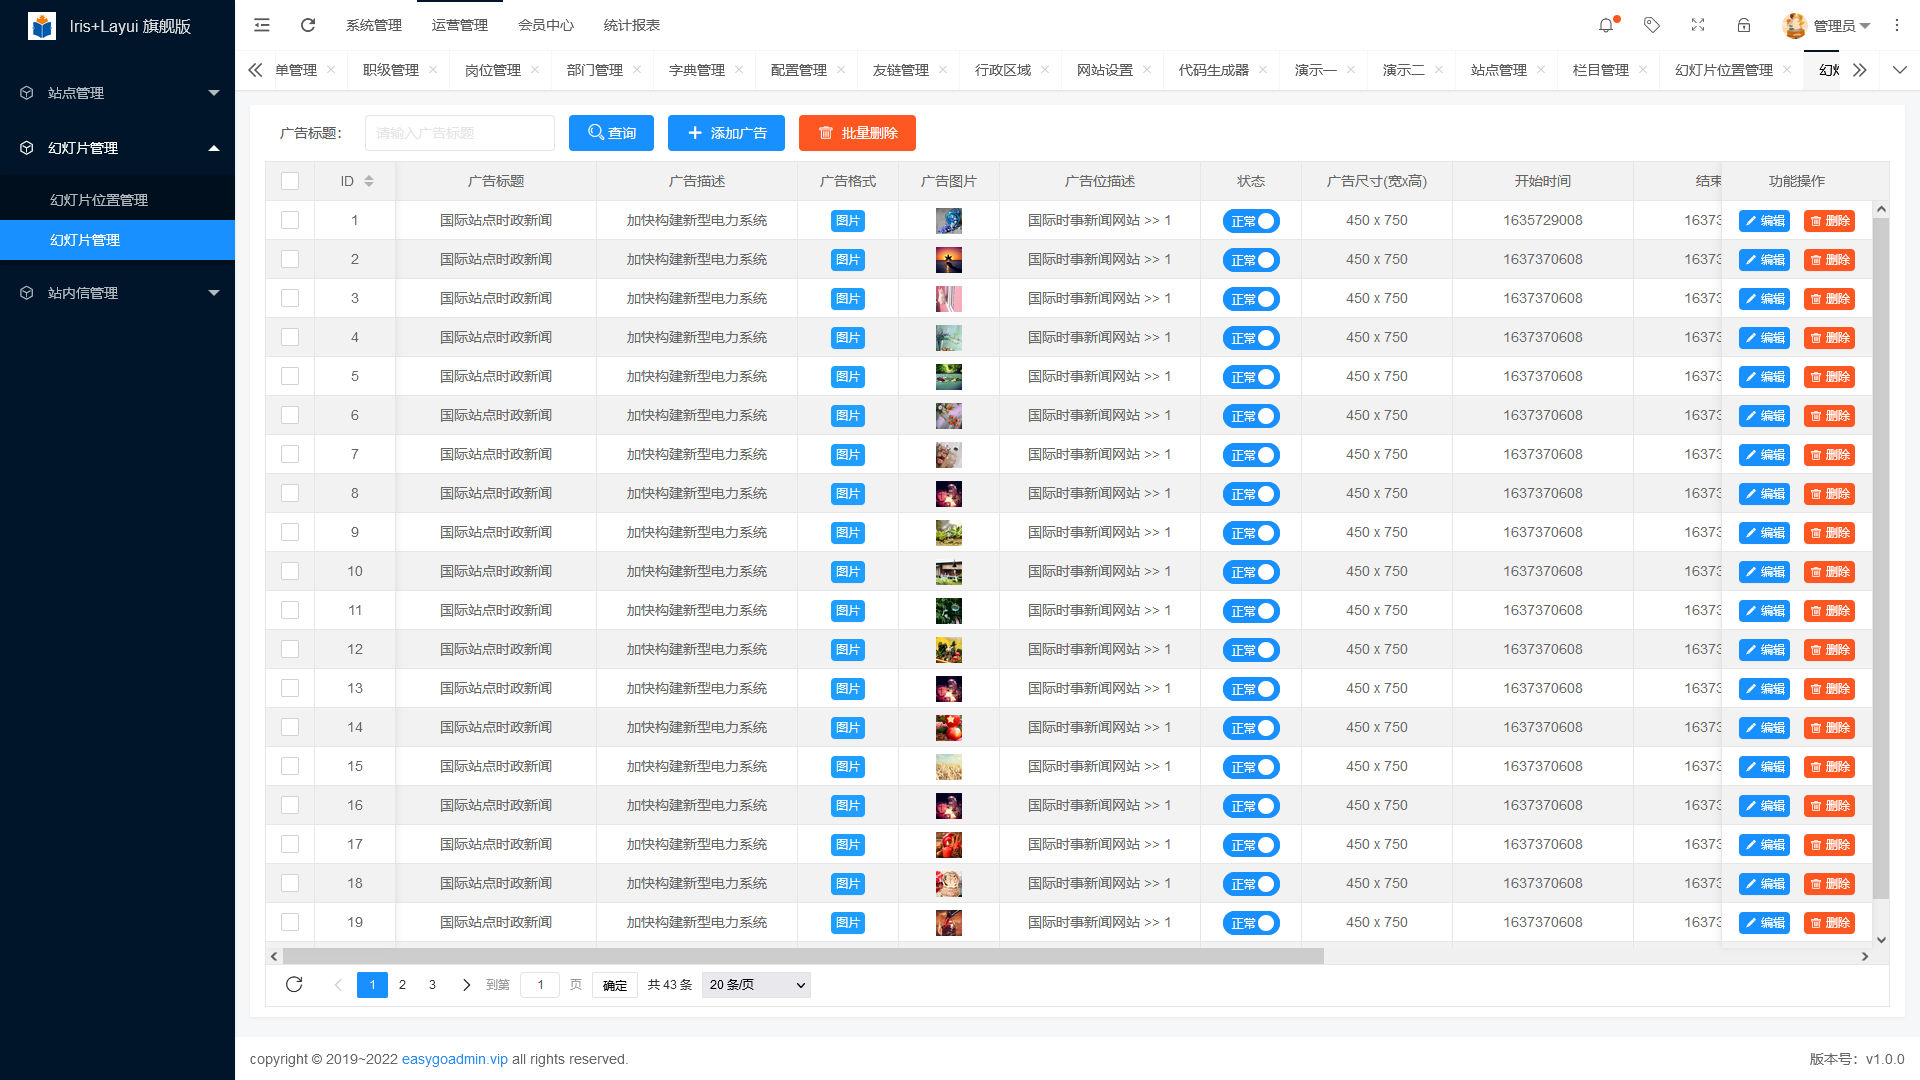
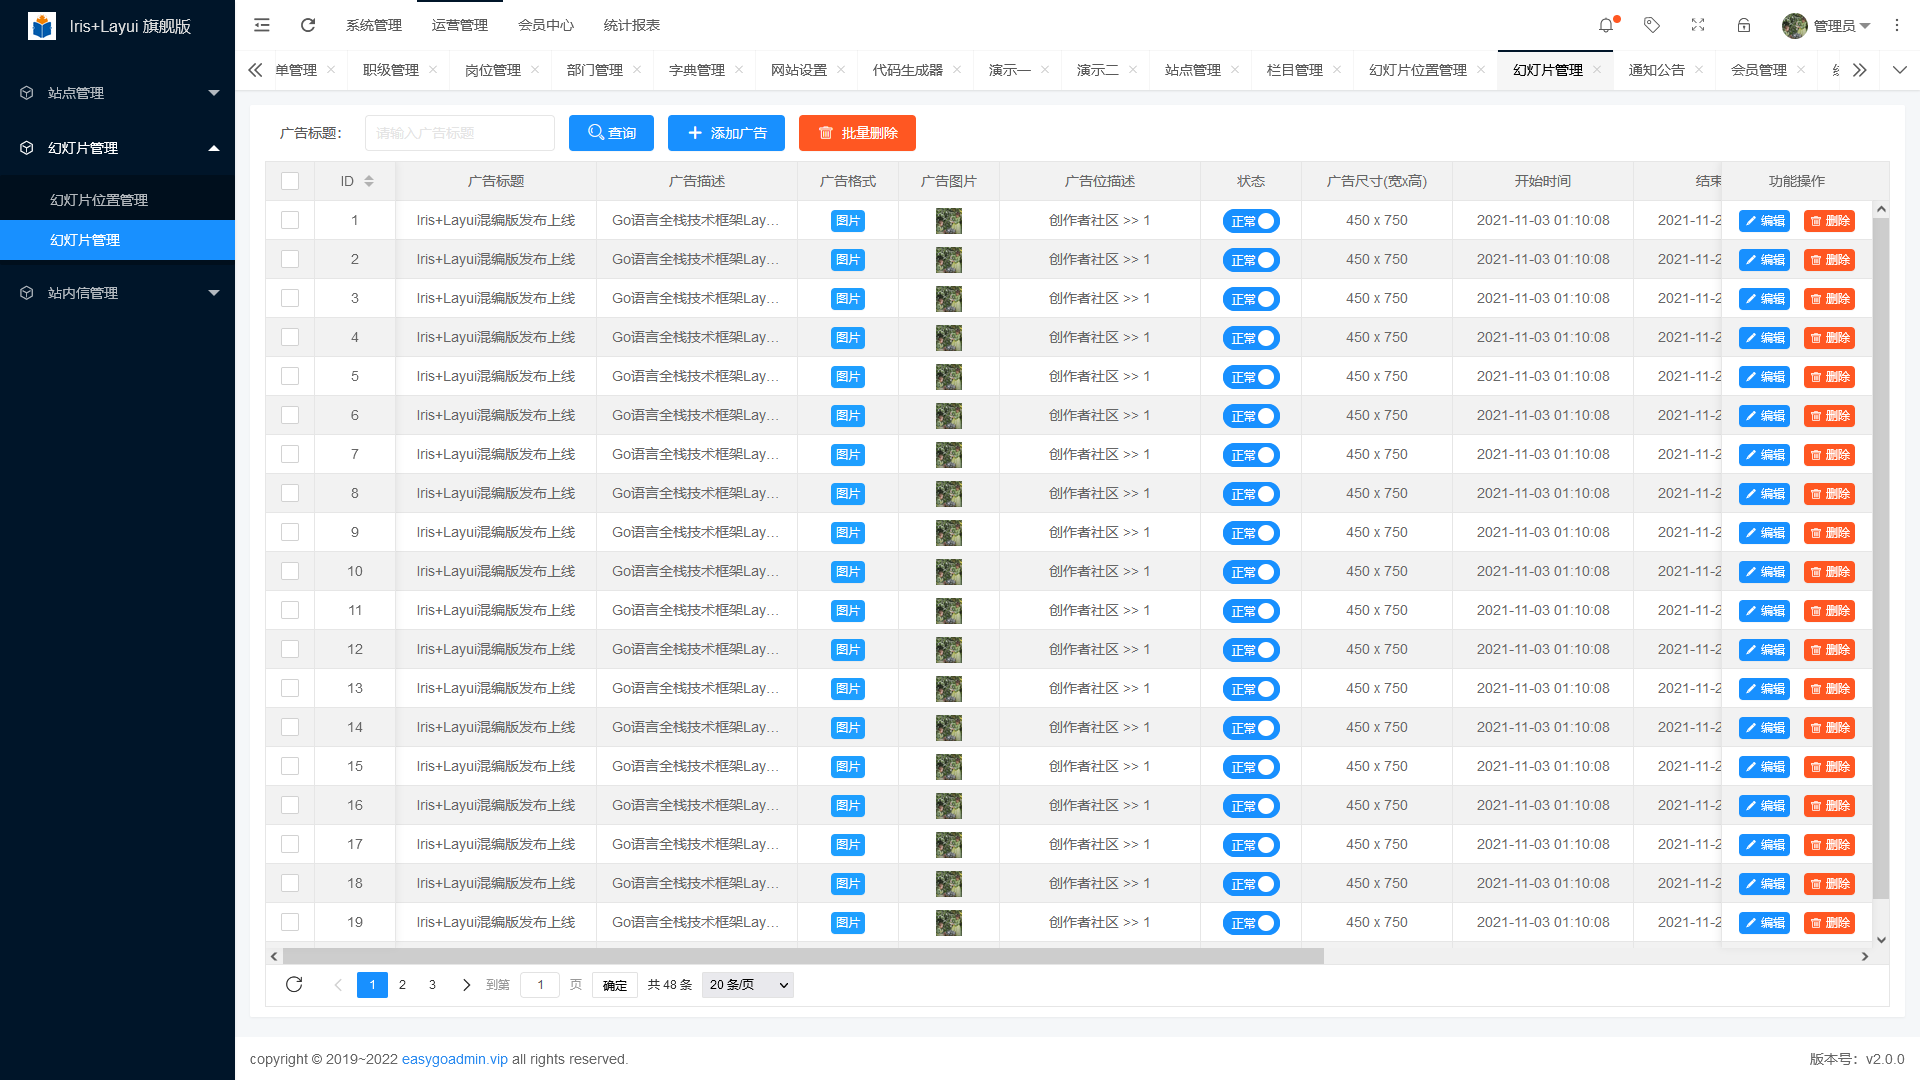
更新

diff --git a/public/static/module/easygoadmin_member.js b/public/static/module/easygoadmin_member.js
@@ -44,10 +44,10 @@ layui.use(['func', 'form'], function () {
                         cls = "layui-btn-normal";
                     } else if (d.gender == 2) {
                         // 女
-                        cls = "layui-btn-danger";
+                        cls = "layui-btn-warm";
                     } else if (d.gender == 3) {
                         // 保密
-                        cls = "layui-btn-warm";
+                        cls = "layui-btn-danger";
                     }
                     return '<span class="layui-btn ' + cls + ' layui-btn-xs">' + d.genderName + '</span>';
                 }
@@ -65,7 +65,8 @@ layui.use(['func', 'form'], function () {
                     return '<input type="checkbox" name="status" value="' + d.id + '" lay-skin="switch" lay-text="正常|禁用" lay-filter="status" ' + (d.status == 1 ? 'checked' : '') + '>';
                 }
             }
-            , {field: 'cityName', width: 250, title: '所在地区', align: 'center'}
+            , {field: 'cityName', width: 200, title: '所在地区', align: 'center'}
+            , {field: 'address', width: 250, title: '详细地址', align: 'center'}
             , {field: 'device', width: 100, title: '设备类型', align: 'center', templet(d) {
                     var cls = "";
                     if (d.device == 1) {
@@ -73,10 +74,10 @@ layui.use(['func', 'form'], function () {
                         cls = "layui-btn-normal";
                     } else if (d.device == 2) {
                         // 安卓
-                        cls = "layui-btn-danger";
+                        cls = "layui-btn-warm";
                     } else if (d.device == 3) {
                         // WAP站
-                        cls = "layui-btn-warm";
+                        cls = "layui-btn-danger";
                     } else if (d.device == 4) {
                         // PC站
                         cls = "layui-btn-primary";
@@ -94,7 +95,7 @@ layui.use(['func', 'form'], function () {
                         cls = "layui-btn-normal";
                     } else if (d.source == 2) {
                         // 马甲会员
-                        cls = "layui-btn-danger";
+                        cls = "layui-btn-primary";
                     }
                     return '<span class="layui-btn ' + cls + ' layui-btn-xs">'+d.sourceName+'</span>';
                 }}

diff --git a/public/static/module/easygoadmin_itemcate.js b/public/static/module/easygoadmin_itemcate.js
@@ -38,17 +38,23 @@ layui.use(['func'], function () {
               {field: 'id', width: 80, title: 'ID', align: 'center', sort: true}
             , {field: 'name', width: 200, title: '栏目名称', align: 'left'}
             , {field: 'itemName', width: 200, title: '所属站点', align: 'center'}
-            , {field: 'pinyin', width: 150, title: '拼音(全)', align: 'center'}
-            , {field: 'code', width: 100, title: '拼音(简)', align: 'center'}
-            , {field: 'is_cover', width: 100, title: '有无封面', align: 'center', templet(d) {
-                    if (d.is_cover == 1) {
+            , {field: 'pinyin', width: 120, title: '拼音(全)', align: 'center'}
+            , {field: 'code', width: 120, title: '拼音(简)', align: 'center'}
+            , {field: 'isCover', width: 100, title: '有无封面', align: 'center', templet(d) {
+                    if (d.isCover == 1) {
                         // 有封面
                         return '<span class="layui-btn layui-btn-normal layui-btn-xs">有封面</span>';
                     } else {
                         // 无封面
-                        return '<span class="layui-btn layui-btn-danger layui-btn-xs">有封面</span>';
+                        return '<span class="layui-btn layui-btn-danger layui-btn-xs">无封面</span>';
                     }
                 }}
+            , {field: 'cover', width: 100, title: '封面', align: 'center', templet: function (d) {
+                    if (d.cover != "") {
+                        return '<a href="' + d.cover + '" target="_blank"><img src="' + d.cover + '" height="26" /></a>';
+                    }
+                }
+            }
             , {field: 'status', width: 100, title: '状态', align: 'center', templet(d) {
                 if (d.status == 1) {
                     // 在用

diff --git a/public/static/module/easygoadmin_ad.js b/public/static/module/easygoadmin_ad.js
@@ -72,8 +72,8 @@ layui.use(['func'], function () {
             , {field: 'size', width: 150, title: '广告尺寸(宽x高)', align: 'center', templet: function (d) {
                     return d.width + " x " + d.height
                 }}
-            , {field: 'startTime', width: 180, title: '开始时间', align: 'center'}
-            , {field: 'endTime', width: 180, title: '结束时间', align: 'center'}
+            , {field: 'startTime', width: 180, title: '开始时间', align: 'center', templet:"<div>{{layui.util.toDateString(d.startTime*1000, 'yyyy-MM-dd HH:mm:ss')}}</div>"}
+            , {field: 'endTime', width: 180, title: '结束时间', align: 'center', templet:"<div>{{layui.util.toDateString(d.endTime*1000, 'yyyy-MM-dd HH:mm:ss')}}</div>"}
             , {field: 'viewNum', width: 100, title: '点击率', align: 'center'}
             , {field: 'sort', width: 100, title: '排序', align: 'center'}
             , {field: 'create_time', width: 180, title: '添加时间', align: 'center', templet:"<div>{{layui.util.toDateString(d.create_time*1000, 'yyyy-MM-dd HH:mm:ss')}}</div>"}

diff --git a/public/static/assets/module/Cropper/croppers.js b/public/static/assets/module/Cropper/croppers.js
@@ -98,7 +98,7 @@ layui.extend({
                         height: saveH
                     }).toBlob(function (blob) {
                         var formData = new FormData();
-                        formData.append('file', blob, 'head.jpg');
+                        formData.append('file', blob, 'logo.png');
 
                         var index = layer.msg('图片保存中，请稍候', {icon: 16, time: false, shade: 0.2});
 

diff --git a/public/static/assets/module/croppers/croppers.js b/public/static/assets/module/croppers/croppers.js
@@ -98,7 +98,7 @@ layui.extend({
                         height: saveH
                     }).toBlob(function (blob) {
                         var formData = new FormData();
-                        formData.append('file', blob, 'head.jpg');
+                        formData.append('file', blob, 'logo.png');
 
                         var index = layer.msg('图片保存中，请稍候', {icon: 16, time: false, shade: 0.2});
 

diff --git a/view/notice/edit.html b/view/notice/edit.html
@@ -32,7 +32,7 @@
 		<label class="layui-form-label">通知内容：</label>
 		<div class="layui-input-block">
 			<textarea name="content" id="content" lay-verify="required" class="layui-textarea">{{.info.Content}}</textarea>
-			{{kindeditor "content" "default" "80%" 350}}
+			{{kindeditor "content" "default" "80%" 450}}
 		</div>
 	</div>
 	{{submit "submit|立即保存,close|关闭" 1 ""}}

diff --git a/app/service/dict.go b/app/service/dict.go
@@ -47,9 +47,9 @@ func (s *dictService) GetList(req dto.DictPageReq) ([]model.Dict, int64, error) 
 	}
 	// 排序
 	query = query.Asc("sort")
-	// 分页设置
-	offset := (req.Page - 1) * req.Limit
-	query = query.Limit(req.Limit, offset)
+	//// 分页设置
+	//offset := (req.Page - 1) * req.Limit
+	//query = query.Limit(req.Limit, offset)
 	// 查询列表
 	list := make([]model.Dict, 0)
 	count, err := query.FindAndCount(&list)

diff --git a/app/service/item_cate.go b/app/service/item_cate.go
@@ -65,7 +65,7 @@ func (s *itemCateService) GetList(req dto.ItemCateQueryReq) []vo.ItemCateInfoVo 
 		// 获取栏目
 		if v.ItemId > 0 {
 			var itemInfo model.Item
-			utils.XormDb.Id(item.Id).Get(&itemInfo)
+			utils.XormDb.Id(v.ItemId).Get(&itemInfo)
 			item.ItemName = itemInfo.Name
 		}
 		// 加入数组
